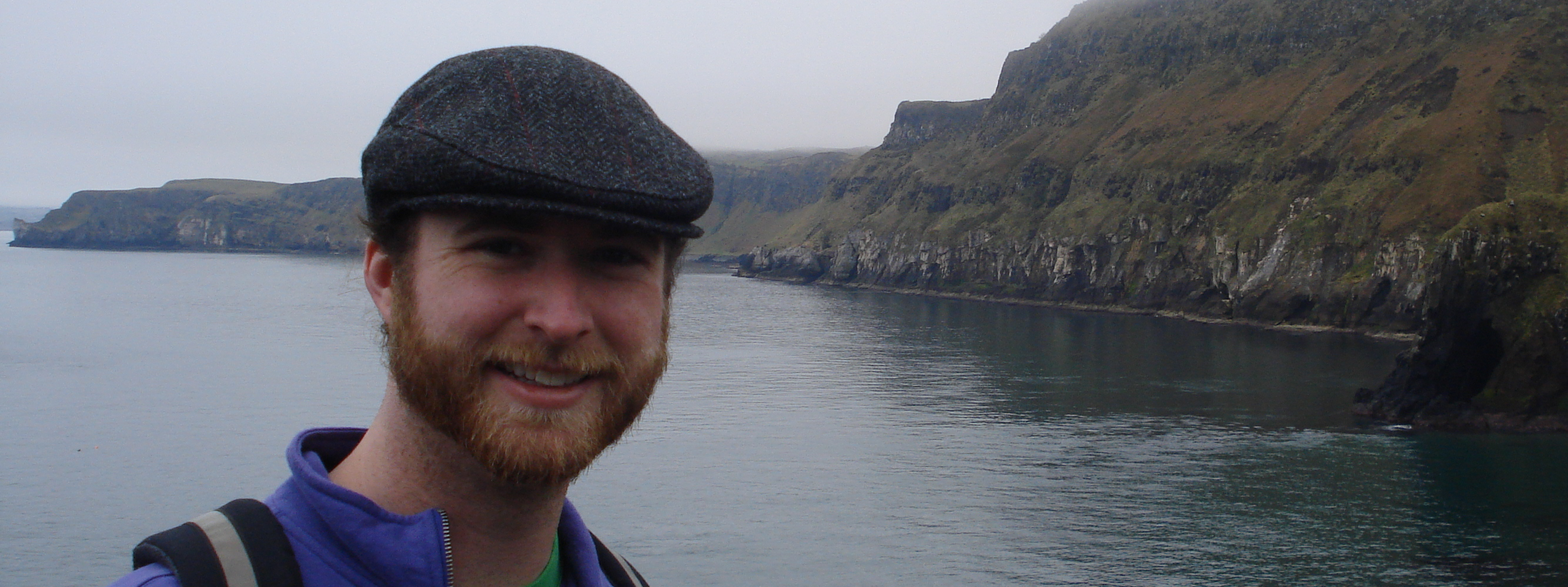
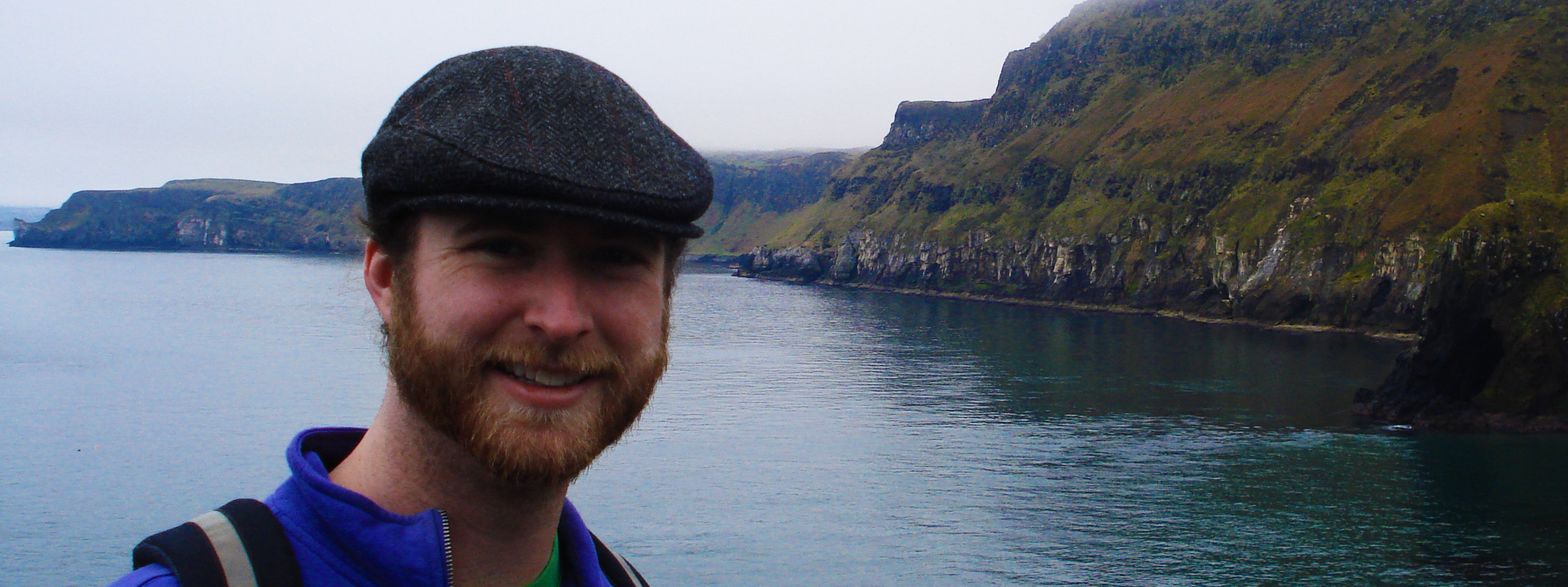
20180118_01
Photo resizing and edits
Updated about page with leaadership and research topics

diff --git a/about.html b/about.html
@@ -49,7 +49,7 @@
 		</div>
 		
 		<div class="row" style="margin-left:25%; margin-right:25%;">
-			<img class="img-responsive img-rounded" src="assets/images/header_about.jpg"</img>
+			<img class="img-responsive img-rounded" src="assets/images/header_about.png"</img>
 			<h2>Want to learn more about me? You're in the right place.</h2>
 		</div>
 		
@@ -218,8 +218,8 @@
 								<dt>Description</dt>
 								<dd>Current work focuses on creating bridge between fields of myoelectric prosthesis control
 								and human motor control in order to address limitations in prosthesis control.
-								Particular focus on how the prosthesis control algorithm affects a user’s motor adaptation,
-								and investigating how to facilitate adaptation to maintain adequate prosthesis control.</dd>
+								Particular focus on using sensory feedback to improve motor adaptation by providing
+								information not accurately available via vision, as determined by psychophysical analysis.</dd>
 							</dl>
 						</div>
 						
@@ -293,12 +293,34 @@
 				
 				<div id="leadership" class="tab-pane panel-group fade">
 					<div class="panel panel-narrow">
+						<button data-toggle="collapse" data-parent="#leadership" href="#leadership-CSC" class="collapsed">
+							<table class="fullwidth">
+								<tr class="center-cell">
+									<td class="cell-30"><img src="assets/images/comscicon.png"></img></td>
+									<td class="cell-40"><h3><abbr title="Communicating Science Conference">ComSciCon</abbr></h3></td>
+									<td class="cell-30"><h3>2017-2018</h3></td>
+								</tr>
+							</table>
+						</button>
+						
+						<div id="leadership-CSC" class="panel-collapse collapse text-justify">
+							<dl>
+								<dt>Organization Website</dt>
+								<dd><a href="https://comscicon.com/comscicon18-workshop"><abbr title="Communicating Science Conference">ComSciCon</abbr> 2018 National Workshop</a></dd>
+								<br>
+								<dt>Position Held</dt>
+								<dd>Program Organizing Committee: 2017-2018</dd>
+								<br>
+								<dt>Description</dt>
+								<dd>Program organizer for sixth annual national conference held summer 2018. Responsible for selecting and contacting panelists and workshop leaders.</dd>
+							</dl>
+						</div>
 						<button data-toggle="collapse" data-parent="#leadership" href="#leadership-CSCC" class="collapsed">
 							<table class="fullwidth">
 								<tr class="center-cell">
 									<td class="cell-30"><img src="assets/images/comsciconchi.png"></img></td>
 									<td class="cell-40"><h3><abbr title="Communicating Science Conference">ComSciCon</abbr>-Chicago</h3></td>
-									<td class="cell-30"><h3>2015-Present</h3></td>
+									<td class="cell-30"><h3>2015-2017</h3></td>
 								</tr>
 							</table>
 						</button>
@@ -306,7 +328,7 @@
 						<div id="leadership-CSCC" class="panel-collapse collapse text-justify">
 							<dl>
 								<dt>Organization Website</dt>
-								<dd><a href="https://comscicon.com/comscicon-chicago-2017"><abbr title="Communicating Science Conference">ComSciCon</abbr>-Chicago</a></dd>
+								<dd><a href="https://comscicon.com/comscicon-chicago-2017"><abbr title="Communicating Science Conference">ComSciCon</abbr>-Chicago 2017 Local Workshop</a></dd>
 								<br>
 								<dt>Positions Held</dt>
 								<dd>Lead Organizer: 2016-2017</dd>
@@ -314,7 +336,7 @@
 								<br>
 								<dt>Description</dt>
 								<dd>Organizer and treasurer for second conference held summer 2016.
-								Lead organizer for third conference to be held summer 2017. Responsible for overseeing other organizers, tracking budget and donated funds,
+								Lead organizer for third conference held summer 2017. Responsible for overseeing other organizers, tracking budget and donated funds,
 								securing conference location, reimbursing for spent funds, and running the conference event.</dd>
 							</dl>
 						</div>
@@ -449,7 +471,7 @@
 								<dd>Patrol Leader: 2003-2005</dd>
 								<br>
 								<dt>Description</dt>
-								<dd>Eagle scout project involved commisioning, designing, and building octagonal bench around tree in local
+								<dd>Eagle scout project involved commissioning, designing, and building octagonal bench around tree in local
 								middle school courtyard.</dd>
 							</dl>
 						</div>

diff --git a/index.html b/index.html
@@ -95,7 +95,7 @@
 		<div>
 			<div class="row" style="margin-left: 0%; margin-right: 0%">
 				<div class="col-sm-4">
-					<a href="about.html"><img class="img-responsive img-rounded" src="assets/images/about.jpg" alt="About me"></img></a>
+					<a href="about.html"><img class="img-responsive img-rounded" src="assets/images/about.png" alt="About me"></img></a>
 					<header class="lefticon icon fa-user">
 						<h3>About</h3>
 						<p>Who is this man talking to me?</p>
